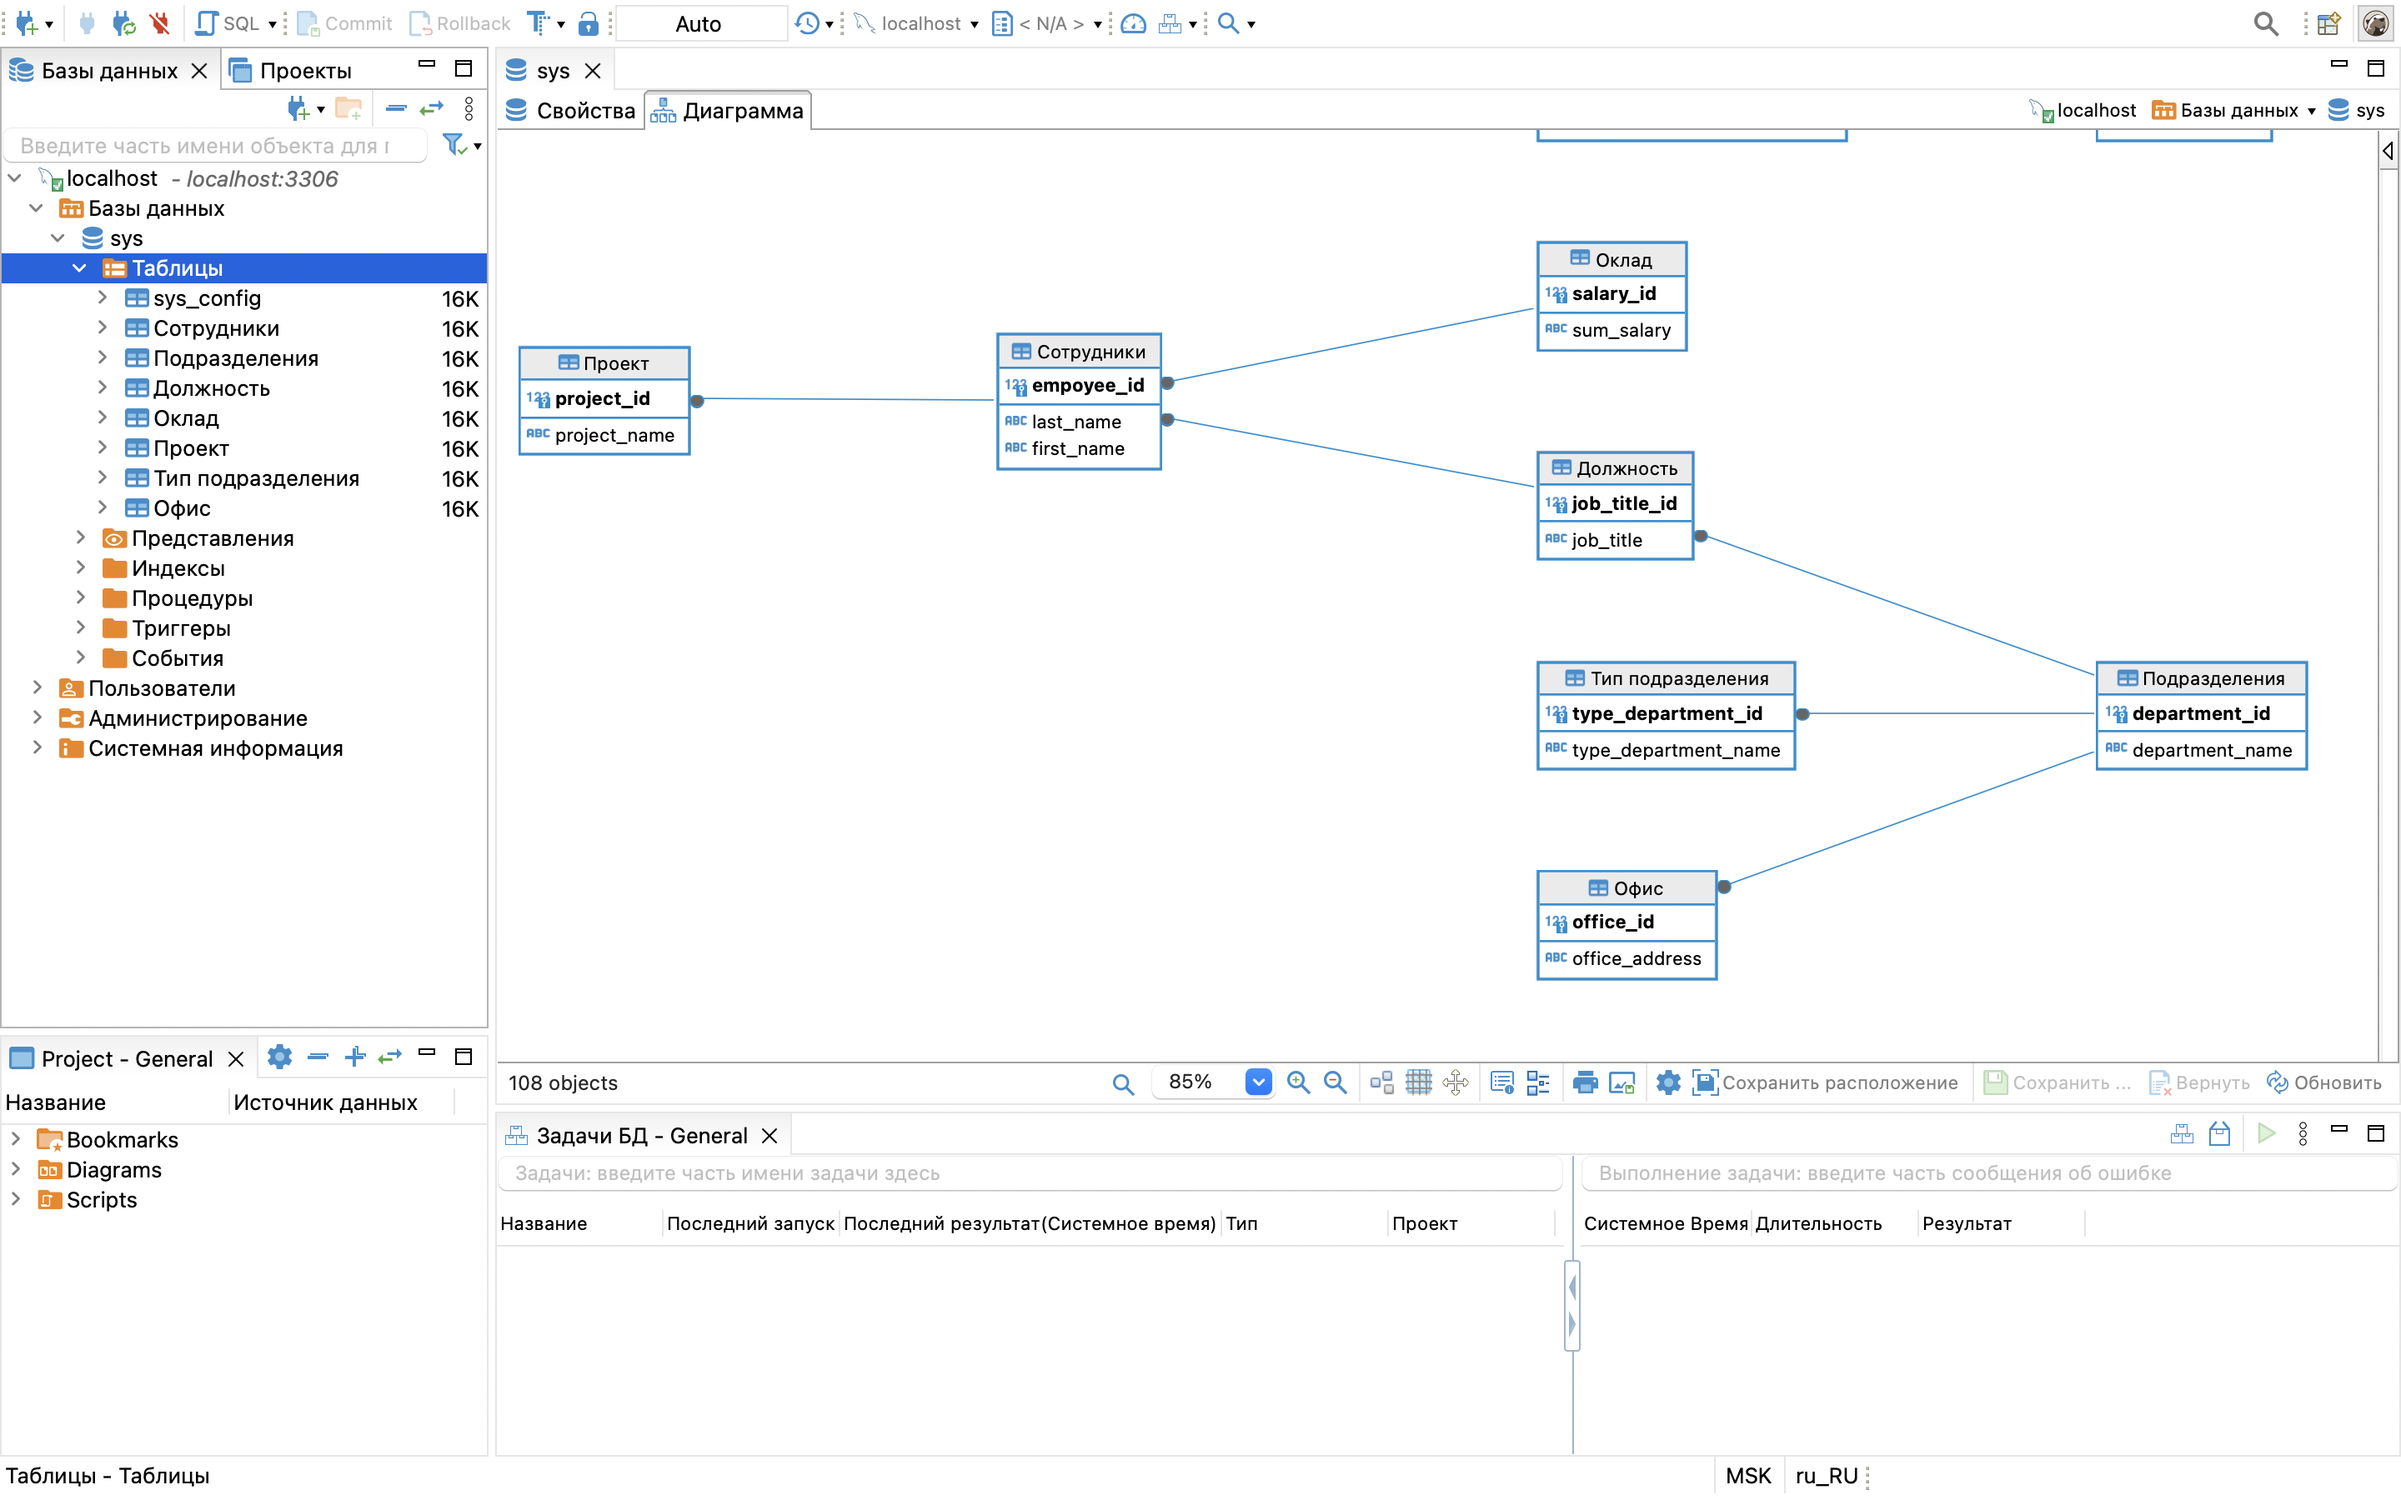
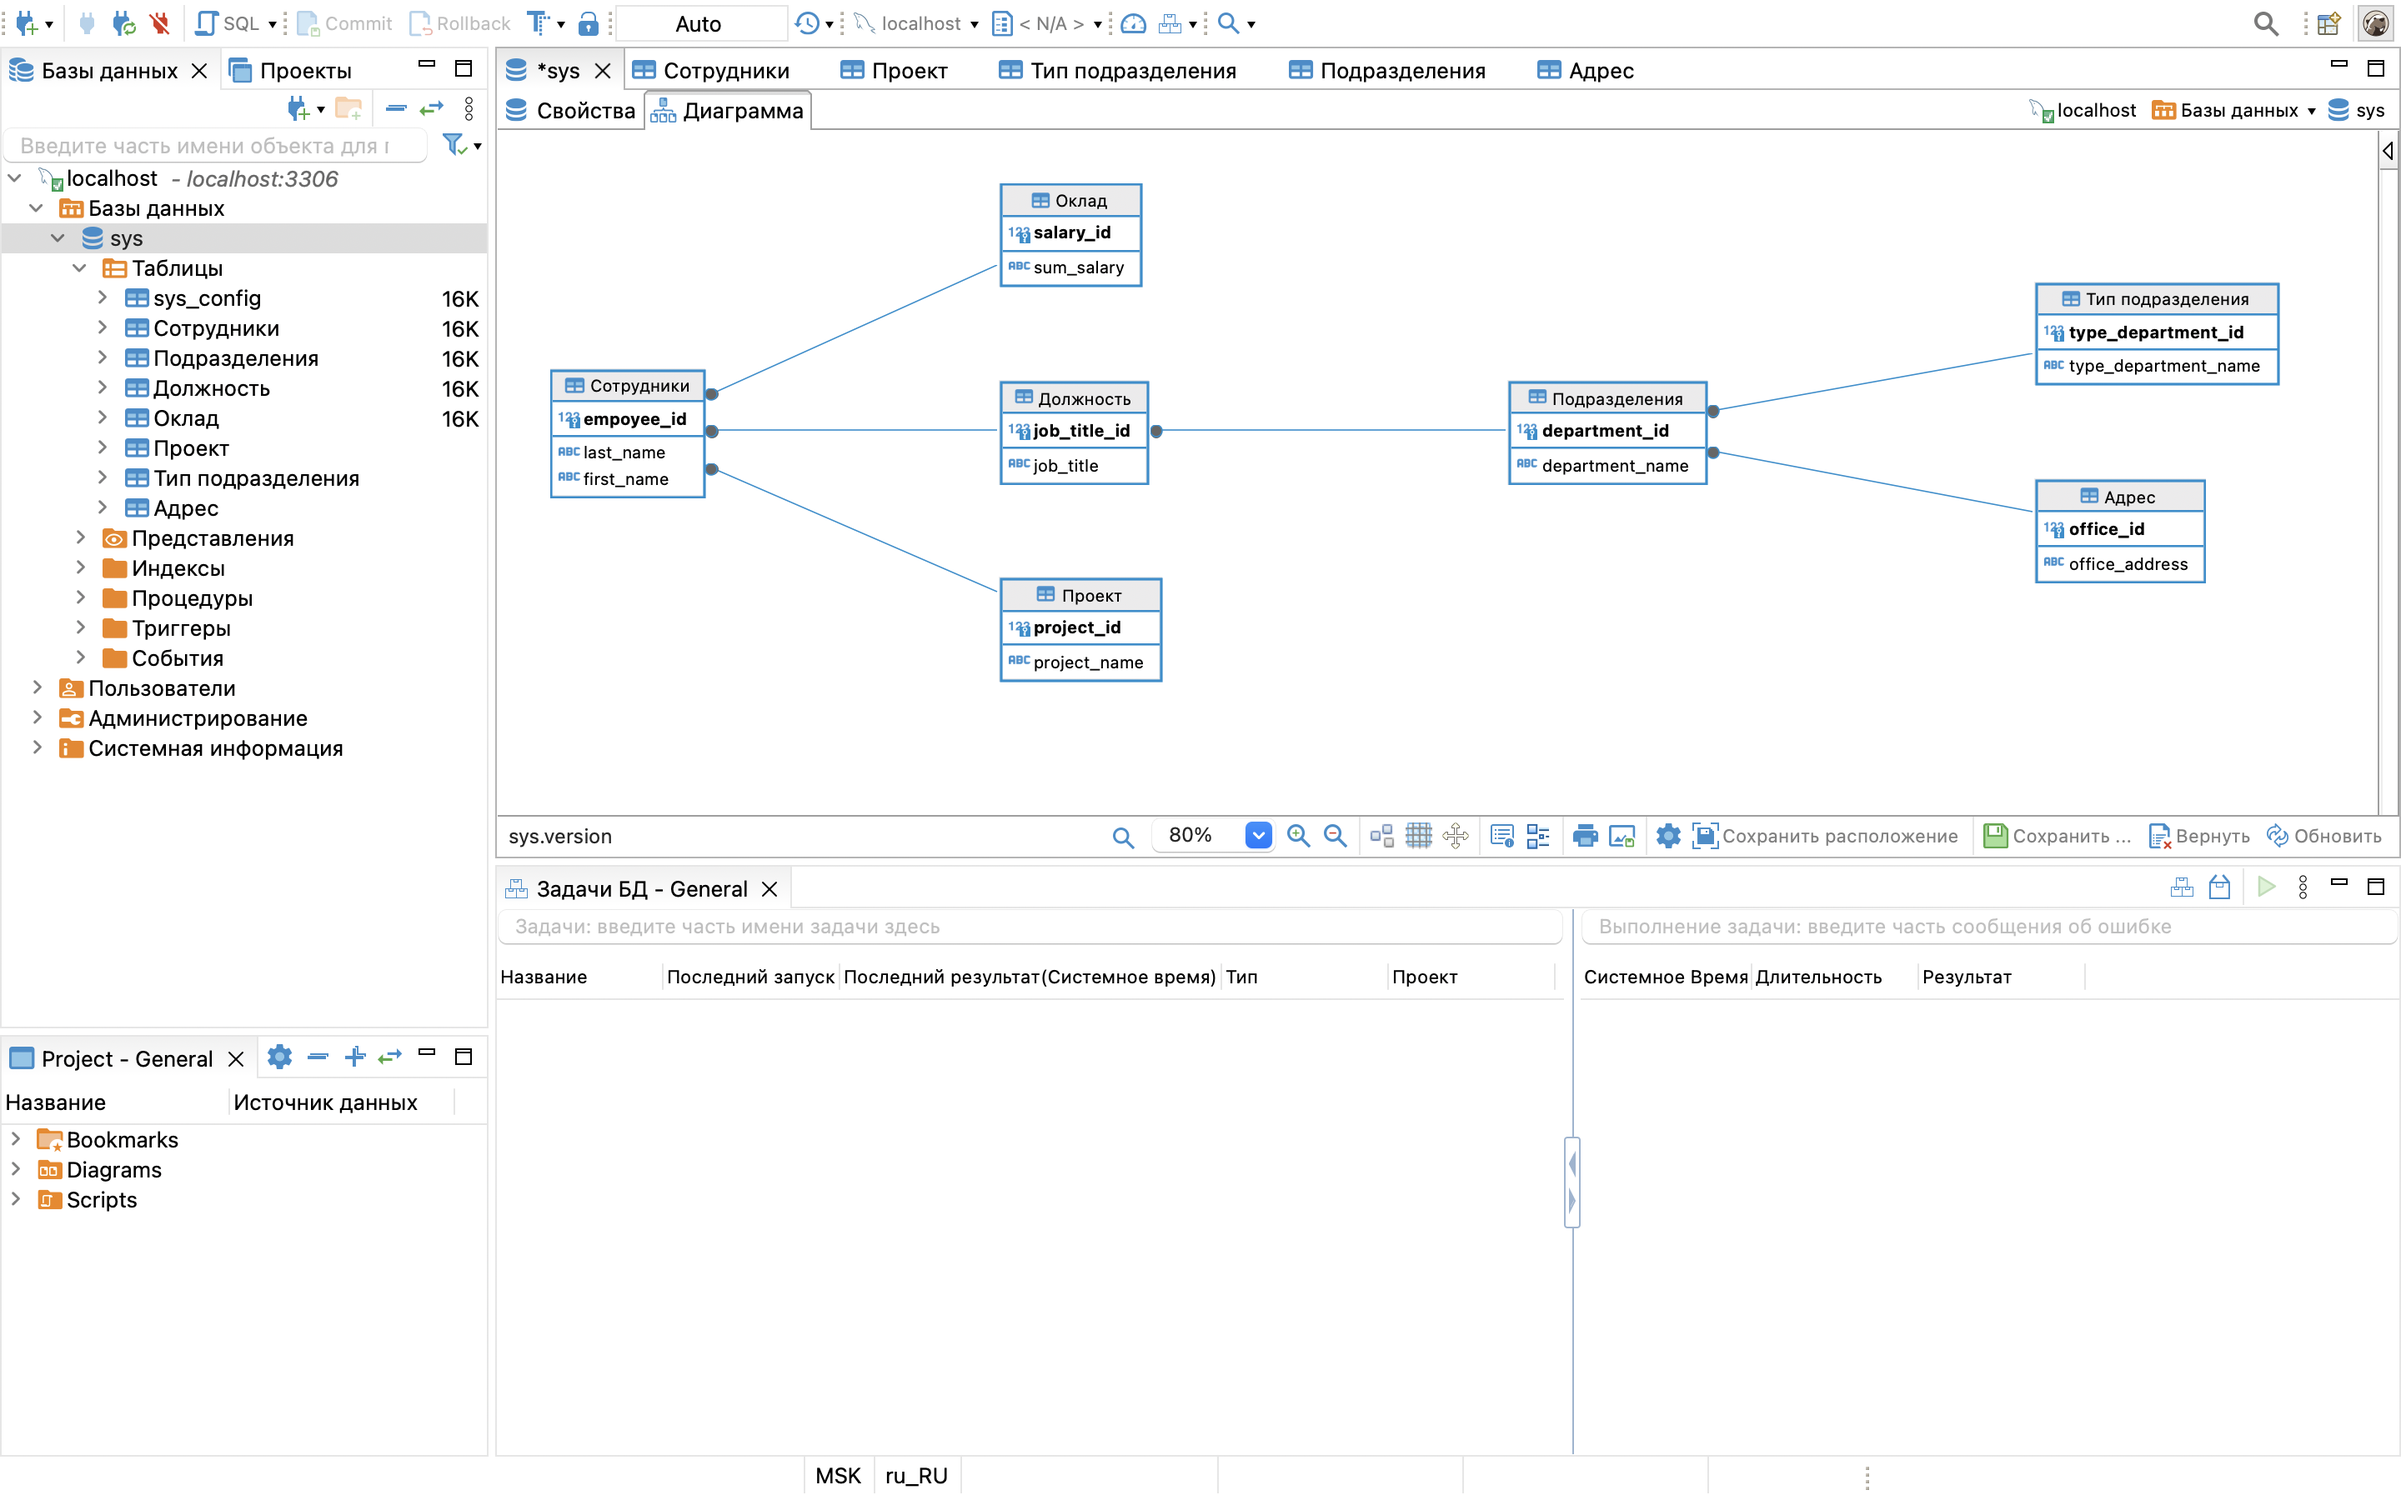
bug fix

diff --git a/Data_storage/12-01.md b/Data_storage/12-01.md
@@ -37,10 +37,16 @@
        employee_id -> job_title_id
   - Сотрудники_FK - внешний ключ, который ссылается на таблицу Оклад
        employee_id -> salary_id
+  - Сотрудники_FK_2 - внешний ключ, который ссылается на таблицу Проект
+       employee_id -> project_id
 
 2. Подразделения:
   - department_id (integer, primary key) - уникальный идентификатор подразделения, первичный ключ.
   - department_name (varchar(50)) - название структурного подразделения
+  - Подразделения_FK - внешний ключ, который ссылается на таблицу Тип подразделения
+       department_id -> type_department_id
+  - Подразделения_FK_1 - внешний ключ, который ссылается на таблицу Адрес
+       department_id -> office_id
 
 3. Должность:
   - job_title_id (integer, primary key) - уникальный идентификатор должности, является первичный ключом.
@@ -55,18 +61,12 @@
 5. Проект
   - project_id (integer) - уникальный идентификатор проекта, первичный ключ.
   - project_name (varchar(20)) - наименование проекта
-  - Проект_FK - внешний ключ, который ссылается на таблицу Сотрудники
-       project_id -> employee_id
 
 6. Тип подразделения
   - type_department_id (integer) - уникальный идентификатор типа подразделения, первичный ключ.
   - type_department_name (varchar(20)) - наименование типа проекта
-  - Тип_подразделения_FK - внешний ключ, который ссылается на таблицу Подразделения
-       type_department_id -> department_id
 
- 7. Офис
+ 7. Адрес
   - office_id (integer) - уникальный идентификатор типа подразделения, первичный ключ.
   - office_address (varchar(100)) - адрес где расположен офис (филиал)
-  - Офис_FK - внешний ключ, который ссылается на таблицу Подразделения
-     office_id -> department_id 
 ```
